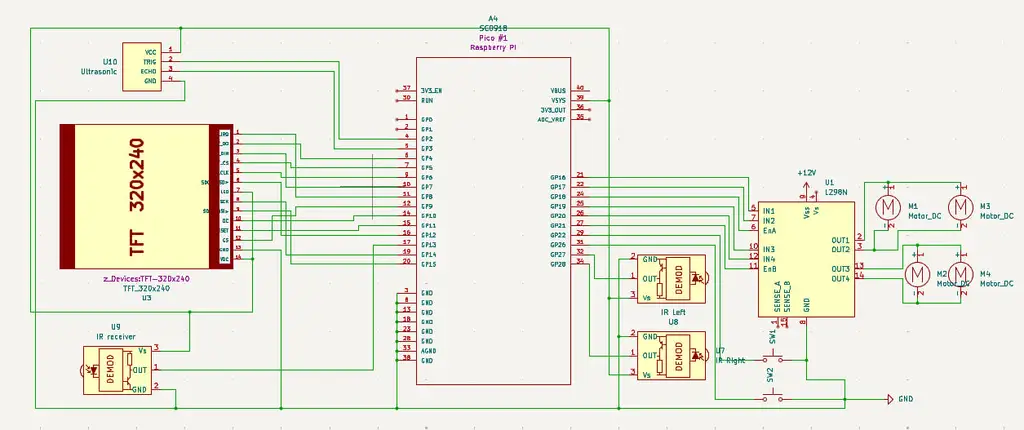
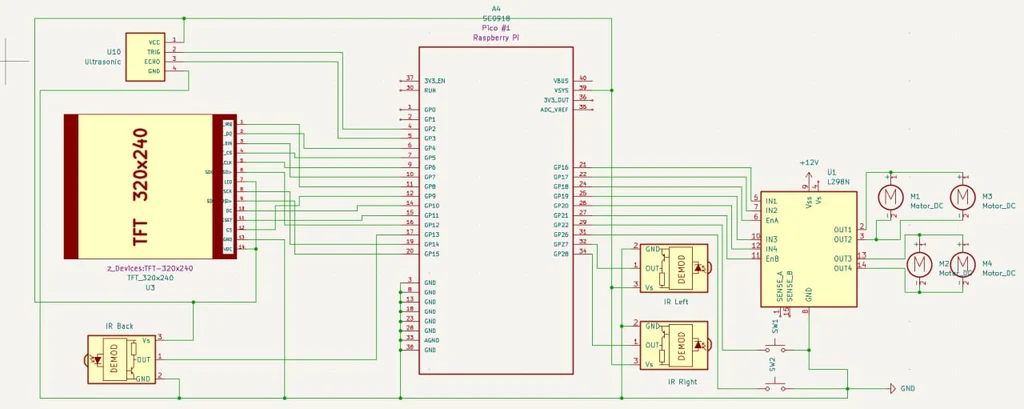
update hardware

Changed region(s): [[0.0312, 0.0293, 1.0, 0.9976], [0.0, 0.1467, 0.0312, 0.176]]

diff --git a/website/versioned_docs/version-fils_en/project/2025/sofia.huzan/index.md b/website/versioned_docs/version-fils_en/project/2025/sofia.huzan/index.md
@@ -40,7 +40,7 @@ But beyond just fun, I wanted something more personal than another phone notific
 
 **Connections:**
 - GPIO → Motor Driver (control signals)
-- GPIO ← IR Proximity Sensors, Ultrasonic Sensor, IR Receiver, Buttons
+- GPIO ← IR Proximity Sensors, Ultrasonic Sensor, Buttons
 - SPI → Display
 - WiFi ↔ Web App (bidirectional)
 - Power Input ← Battery (5V via Power Supply Module)
@@ -67,7 +67,7 @@ But beyond just fun, I wanted something more personal than another phone notific
 
 ---
 
-### 3. IR Proximity Sensors (Left and Right)
+### 3. IR Proximity Sensors (LefT, Right and Rear)
 
 **Role:** Detects nearby objects for navigation or avoidance
 
@@ -99,22 +99,7 @@ But beyond just fun, I wanted something more personal than another phone notific
 
 ---
 
-### 5. IR Receiver
-
-**Role:** Receives commands from remote control
-
-**Interface:** GPIO (digital)
-
-**Functions:**
-- Receives modulated IR signals
-- Decodes remote control button presses
-
-**Connections:**
-- Signal → Pico GPIO
-
----
-
-### 6. Buttons (Red and Blue)
+### 5. Buttons (Red and Blue)
 
 **Role:** Manual input for control
 
@@ -128,7 +113,7 @@ But beyond just fun, I wanted something more personal than another phone notific
 
 ---
 
-### 7. Display (SPI)
+### 6. Display (SPI)
 
 **Role:** Provides visual feedback
 
@@ -142,7 +127,7 @@ But beyond just fun, I wanted something more personal than another phone notific
 
 ---
 
-### 8. Web App
+### 7. Web App
 
 **Role:** Enables remote control and monitoring
 
@@ -157,10 +142,10 @@ But beyond just fun, I wanted something more personal than another phone notific
 
 ---
 
-### 9. Power Supplies
+### 8. Power Supplies
 
 - **Pico:** Powered by a battery via Power Supply Module
-- **Motor Driver:** Powered directly from 12V battery
+- **Motor Driver:** Powered directly from 9V + 4×1.5V batteries
 
 ## Log
 
@@ -170,6 +155,8 @@ After receiving the components, I tested their functionality and researched comp
 
 ### Week 12 - 18 May
 
+Focused on implementing the remote control functionality and integrating it with the display system. Developed the basic logic for the menu navigation and began working on the on-screen keyboard, including input handling and layout structuring.
+
 ### Week 19 - 25 May
 
 ## Hardware
@@ -178,17 +165,18 @@ After receiving the components, I tested their functionality and researched comp
 - **Raspberry Pi Pico 2W**: The brain of the operation, running all control logic
 - **DC Motors**: 4 gearmotors providing wheel movement (2 per side)
 - **L298N Driver**: Powers and controls motor speed/direction
-- **Infrared Sensors**: Left/right obstacle detection (reflectance sensors)
+- **Infrared Sensors**: Left/right/rear obstacle detection (reflectance sensors)
 - **Ultrasonic Sensor**: Front-facing distance measurement (2cm-400cm range)
 - **TFT Display**: 2.4" color screen with touch input for user interface
-- **IR Receiver**: Decodes signals from standard remote controls and transfers to the pico
 - **Buttons**: Physical input for selection
 - **Dupont Wires**: Jumper cables for all electrical connections
 - **Chassis**: Frame holding all components
 
-![](keyboard.webp)
 ![](top.webp)
-![](rear.webp)
+![](motor.webp)
+![](back.webp)
+![](front.webp)
+![](keyboard.webp)
 
 ### Schematics
 
@@ -197,19 +185,18 @@ Here is the KiCad schematics
 
 ### Bill of Materials
 
-| Device | Usage | Price |
-|--------|-------|-------|
-| [Raspberry Pi Pico 2W *2](https://www.raspberrypi.com/documentation/microcontrollers/raspberry-pi-pico.html) | Microcontroller board | [39.66 RON each(79.32 RON total)](https://www.optimusdigital.ro/ro/placi-raspberry-pi/13327-raspberry-pi-pico-2-w.html) |
-| [DC Motor (×4)](https://ardushop.ro/ro/electronica/752-motor-dc-3v-6v-cu-reductor-1-48-6427854009609.html) | Wheel drive motors | ~7 RON each (28 RON total) |
-| [L298N Dual Motor Driver Module](https://www.optimusdigital.ro/ro/drivere-de-motoare-cu-perii/145-driver-de-motoare-dual-l298n.html) | Motor control | 10.99 RON |
-| [Infrared Obstacle Sensor (×2)](https://www.optimusdigital.ro/ro/senzori-senzori-optici/4514-senzor-infrarosu-de-obstacole.html) | Object detection | 3.49 RON each (6.98 RON total) |
-| [HC-SR04 Ultrasonic Sensor](https://www.optimusdigital.ro/ro/senzori-senzori-optici/4513-senzor-ultrasonic-hc-sr04.html) | Distance measurement | 39.66 RON |
-| [10cm Dupont Wires (40-pin)](https://www.optimusdigital.ro/ro/fire-fire-mufate/653-fire-colorate-mama-tata-40p-10-cm.html) | Short connections | 5.17 RON |
-| [20cm Dupont Wires (40-pin)](https://www.optimusdigital.ro/ro/fire-fire-mufate/92-fire-colorate-mama-tata-40p.html) | Long connections | 5.99 RON |
-| [2.4" SPI TFT Display](https://www.optimusdigital.ro/ro/afișaje/4516-afișaj-tft-24-spi-240x320.html) | User interface | 47.99 RON |
-| [KY-022 IR Receiver (VS1838B)](https://www.optimusdigital.ro/ro/senzori-senzori-optici/4515-modul-receptor-ir-vs1838b-ky-022.html) | Infrared signal reception | 1.99 RON |
-| [Buttons](https://www.optimusdigital.ro/ro/butoane-i-comutatoare/1115-buton-cu-capac-rotund-alb.html?search_query=buton&results=213) | User selection | 1.99 RON each(3.98 RON in total) |
-| Chasis | Base for the robot | 30 RON |
+| Device                                                                                                                                   | Usage                     | Price |
+|------------------------------------------------------------------------------------------------------------------------------------------|---------------------------|-------|
+| [Raspberry Pi Pico 2W (×2)](https://www.raspberrypi.com/documentation/microcontrollers/raspberry-pi-pico.html)                           | Microcontroller board     | [39.66 RON each(79.32 RON total)](https://www.optimusdigital.ro/ro/placi-raspberry-pi/13327-raspberry-pi-pico-2-w.html) |
+| [DC Motor (×4)](https://ardushop.ro/ro/electronica/752-motor-dc-3v-6v-cu-reductor-1-48-6427854009609.html)                               | Wheel drive motors        | ~7 RON each (28 RON total) |
+| [L298N Dual Motor Driver Module](https://www.optimusdigital.ro/ro/drivere-de-motoare-cu-perii/145-driver-de-motoare-dual-l298n.html)     | Motor control             | 10.99 RON |
+| [Infrared Obstacle Sensor (×3)](https://www.optimusdigital.ro/ro/senzori-senzori-optici/4514-senzor-infrarosu-de-obstacole.html)         | Object detection          | 3.49 RON each (6.98 RON total) |
+| [HC-SR04 Ultrasonic Sensor](https://www.optimusdigital.ro/ro/senzori-senzori-optici/4513-senzor-ultrasonic-hc-sr04.html)                 | Distance measurement      | 39.66 RON |
+| [10cm Dupont Wires (40-pin)](https://www.optimusdigital.ro/ro/fire-fire-mufate/653-fire-colorate-mama-tata-40p-10-cm.html)               | Short connections         | 5.17 RON |
+| [20cm Dupont Wires (40-pin)](https://www.optimusdigital.ro/ro/fire-fire-mufate/92-fire-colorate-mama-tata-40p.html)                      | Long connections          | 5.99 RON |
+| [2.4" SPI TFT Display](https://www.optimusdigital.ro/ro/afișaje/4516-afișaj-tft-24-spi-240x320.html)                                     | User interface            | 47.99 RON |
+| [Buttons(×2)](https://www.optimusdigital.ro/ro/butoane-i-comutatoare/1115-buton-cu-capac-rotund-alb.html?search_query=buton&results=213) | Option selection          | 1.99 RON each(3.98 RON in total) |
+| Chasis                                                                                                                                   | Base for the robot        | 30 RON |
 
 ## Software
 
@@ -228,5 +215,3 @@ Here is the KiCad schematics
 ## Links
 
 1. Inspiration: [Delievery robots](https://www.youtube.com/shorts/X4sxt9EzPo8)
-2. [IR Remote](https://www.youtube.com/watch?v=q97VE3oEwIc)
-...
